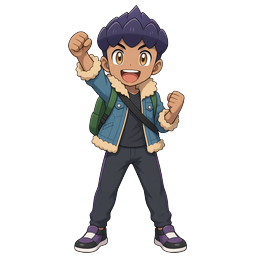
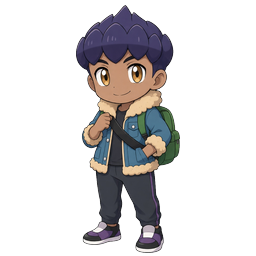
Add Nurse Joy and redraw Hop as a house-proportion chibi
Asset-only: replace the tall Galar Hop portrait with a chibi that
matches the house proportions, and add Nurse Joy (Let's Go / SwSh
Pokémon Center nurse) under trainers-special. No game-code changes.

Changed region(s): [[0.25, 0.0, 0.75, 1.0]]

diff --git a/assets/trainers-special/README.md b/assets/trainers-special/README.md
@@ -1,6 +1,6 @@
 # Special character chibi portraits
 
-Chibi portraits of Ash (classic Kanto anime outfit) and Green (the female Pokémon Adventures / Let's Go character, not the Kanto rival Blue). These files are 256×256 transparent portraits with matching `{id}_1024.png` hi-res sources. The game should load them alongside `assets/trainers-classic.webp`.
+Chibi portraits of Ash (classic Kanto anime outfit), Green (the female Pokémon Adventures / Let's Go character, not the Kanto rival Blue), and Nurse Joy (Let's Go / Sword & Shield-era Pokémon Center nurse). These files are 256×256 transparent portraits with matching `{id}_1024.png` hi-res sources. The game should load them alongside `assets/trainers-classic.webp`.
 
 `trainer-portraits.js` loads each portrait by id from this folder when it is shown: WebP first, then PNG. The classic 4×4 atlas stays as it is.
 
@@ -12,6 +12,7 @@ This branch adds assets only. Register new unique ids in `portrait-manifest.js` 
 | --- | --- | --- | --- |
 | `ash` | Ash | Anime protagonist · classic Kanto outfit | New id. Not to be confused with the atlas id `ashby`. |
 | `green` | Green | Female trainer · Let's Go / Adventures design | The Kanto rival already exists as `blue` in `assets/trainers-kanto/`. This is the female Green (brown hair, black dress), not Blue. |
+| `nurse_joy` | Nurse Joy | Pokémon Center nurse | New id. Official Let's Go / SwSh-era games design. |
 
 ## Formats and sizes
 
